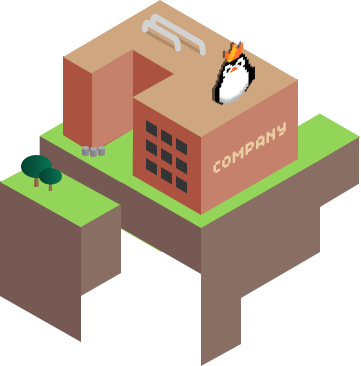
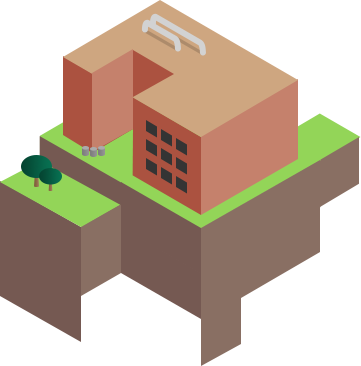
replaced company building, added js hover for title & penguin

Changed region(s): [[0.3352, 0.6311, 0.5789, 0.8716], [0.5789, 0.0902, 0.7313, 0.3005], [0.5789, 0.3306, 0.7922, 0.4809]]

diff --git a/src/sass/about-island.scss b/src/sass/about-island.scss
@@ -53,12 +53,28 @@
 }
 
 .company-title {
+  height: 17px;
   transform: skewY(-30deg);
   color: #ebcda3;
   font-size: 17px;
-  top: 188px;
+  top: 205px;
   left: 375px;
+  transition: top .25s ease-in-out;
 }
+.company-title-hover {
+  top: 188px;
+  height: 70px;
+}
+.company-penguin {
+  top: 105px;
+  left: 373px;
+  transition: top .25s ease-in-out;
+}
+.company-penguin-hover {
+  top: 75px;
+  border-bottom: 30px solid transparent;
+}
+
 .story-title {
   transform: skewY(-30deg);
   color: white;
@@ -102,26 +118,13 @@
   }
 }
 
-#company {
-  background-image: url('img/Company.png');
+.company {
   top: 65px;
   left: 161px;
-  width: 361px;
-  height: 366px;
   transition: all .25s ease-in-out;
-  &:hover {
-    background-image: url('img/Company_hover.png');
-    top: 50px;
-    left: 161px;
-    width: 361px;
-    height: 366px;
-  }
-  &::before {
-    content: url('img/Company_hover.png');
-    width:0;
-    height:0;
-    visibility: hidden;
-  }
+}
+.company-hover {
+  top: 50px;
 }
 
 #ourstory {

diff --git a/src/js/hovers.js b/src/js/hovers.js
@@ -24,4 +24,30 @@
     }
   );
 
+  $('.company-title').hover(
+    function () {
+      $(this).addClass('company-title-hover');
+      $('.company').addClass('company-hover');
+      $('.company-penguin').addClass('company-penguin-hover');
+    },
+    function () {
+      $(this).removeClass('company-title-hover');
+      $('.company').removeClass('company-hover');
+      $('.company-penguin').removeClass('company-penguin-hover');
+    }
+  );
+
+  $('.company-penguin').hover(
+    function () {
+      $(this).addClass('company-penguin-hover');
+      $('.company').addClass('company-hover');
+      $('.company-title').addClass('company-title-hover');
+    },
+    function () {
+      $(this).removeClass('company-penguin-hover');
+      $('.company').removeClass('company-hover');
+      $('.company-title').removeClass('company-title-hover');
+    }
+  );
+
 }());

diff --git a/src/index.html b/src/index.html
@@ -161,9 +161,10 @@
         <img class='team mobile-hide' src='img/Team_hover.png' alt=''>
         <img class='shadows mobile-hide' src='img/Shadows.png' alt=''>
         <img class='figures mobile-hide' src='img/Team_figures.png' alt=''>
-        <img class='figures-mobile' src='img/figures_mobile.png' alt=''>
-        <div id='company' class='mobile-hide'>
-        </div>
+        <img class='figures-mobile mobile-show' src='img/figures_mobile.png' alt=''>
+
+        <img class='company' src='img/Company.png' alt=''>
+        <img class='company-penguin' src='img/Company_penguin.png' alt=''>
         <div id='contactus' class='mobile-hide'>
         </div>
         <div id='ourstory' class='mobile-hide'>

diff --git a/src/js/popups.js b/src/js/popups.js
@@ -41,7 +41,11 @@
     $('#team-popup').removeClass('hide');
   });
 
-  $('#company').click(function() {
+  $('.company-title').click(function() {
+    blur();
+    $('#company-popup').toggleClass('hide');
+  });
+  $('.company-penguin').click(function () {
     blur();
     $('#company-popup').toggleClass('hide');
   });

diff --git a/src/sass/sky.scss b/src/sass/sky.scss
@@ -10,6 +10,10 @@ body {
   padding: 0;
 }
 
+.mobile-show {
+  display: none;
+}
+
 
 .wrapper-island {
   margin: 160px 10%;
